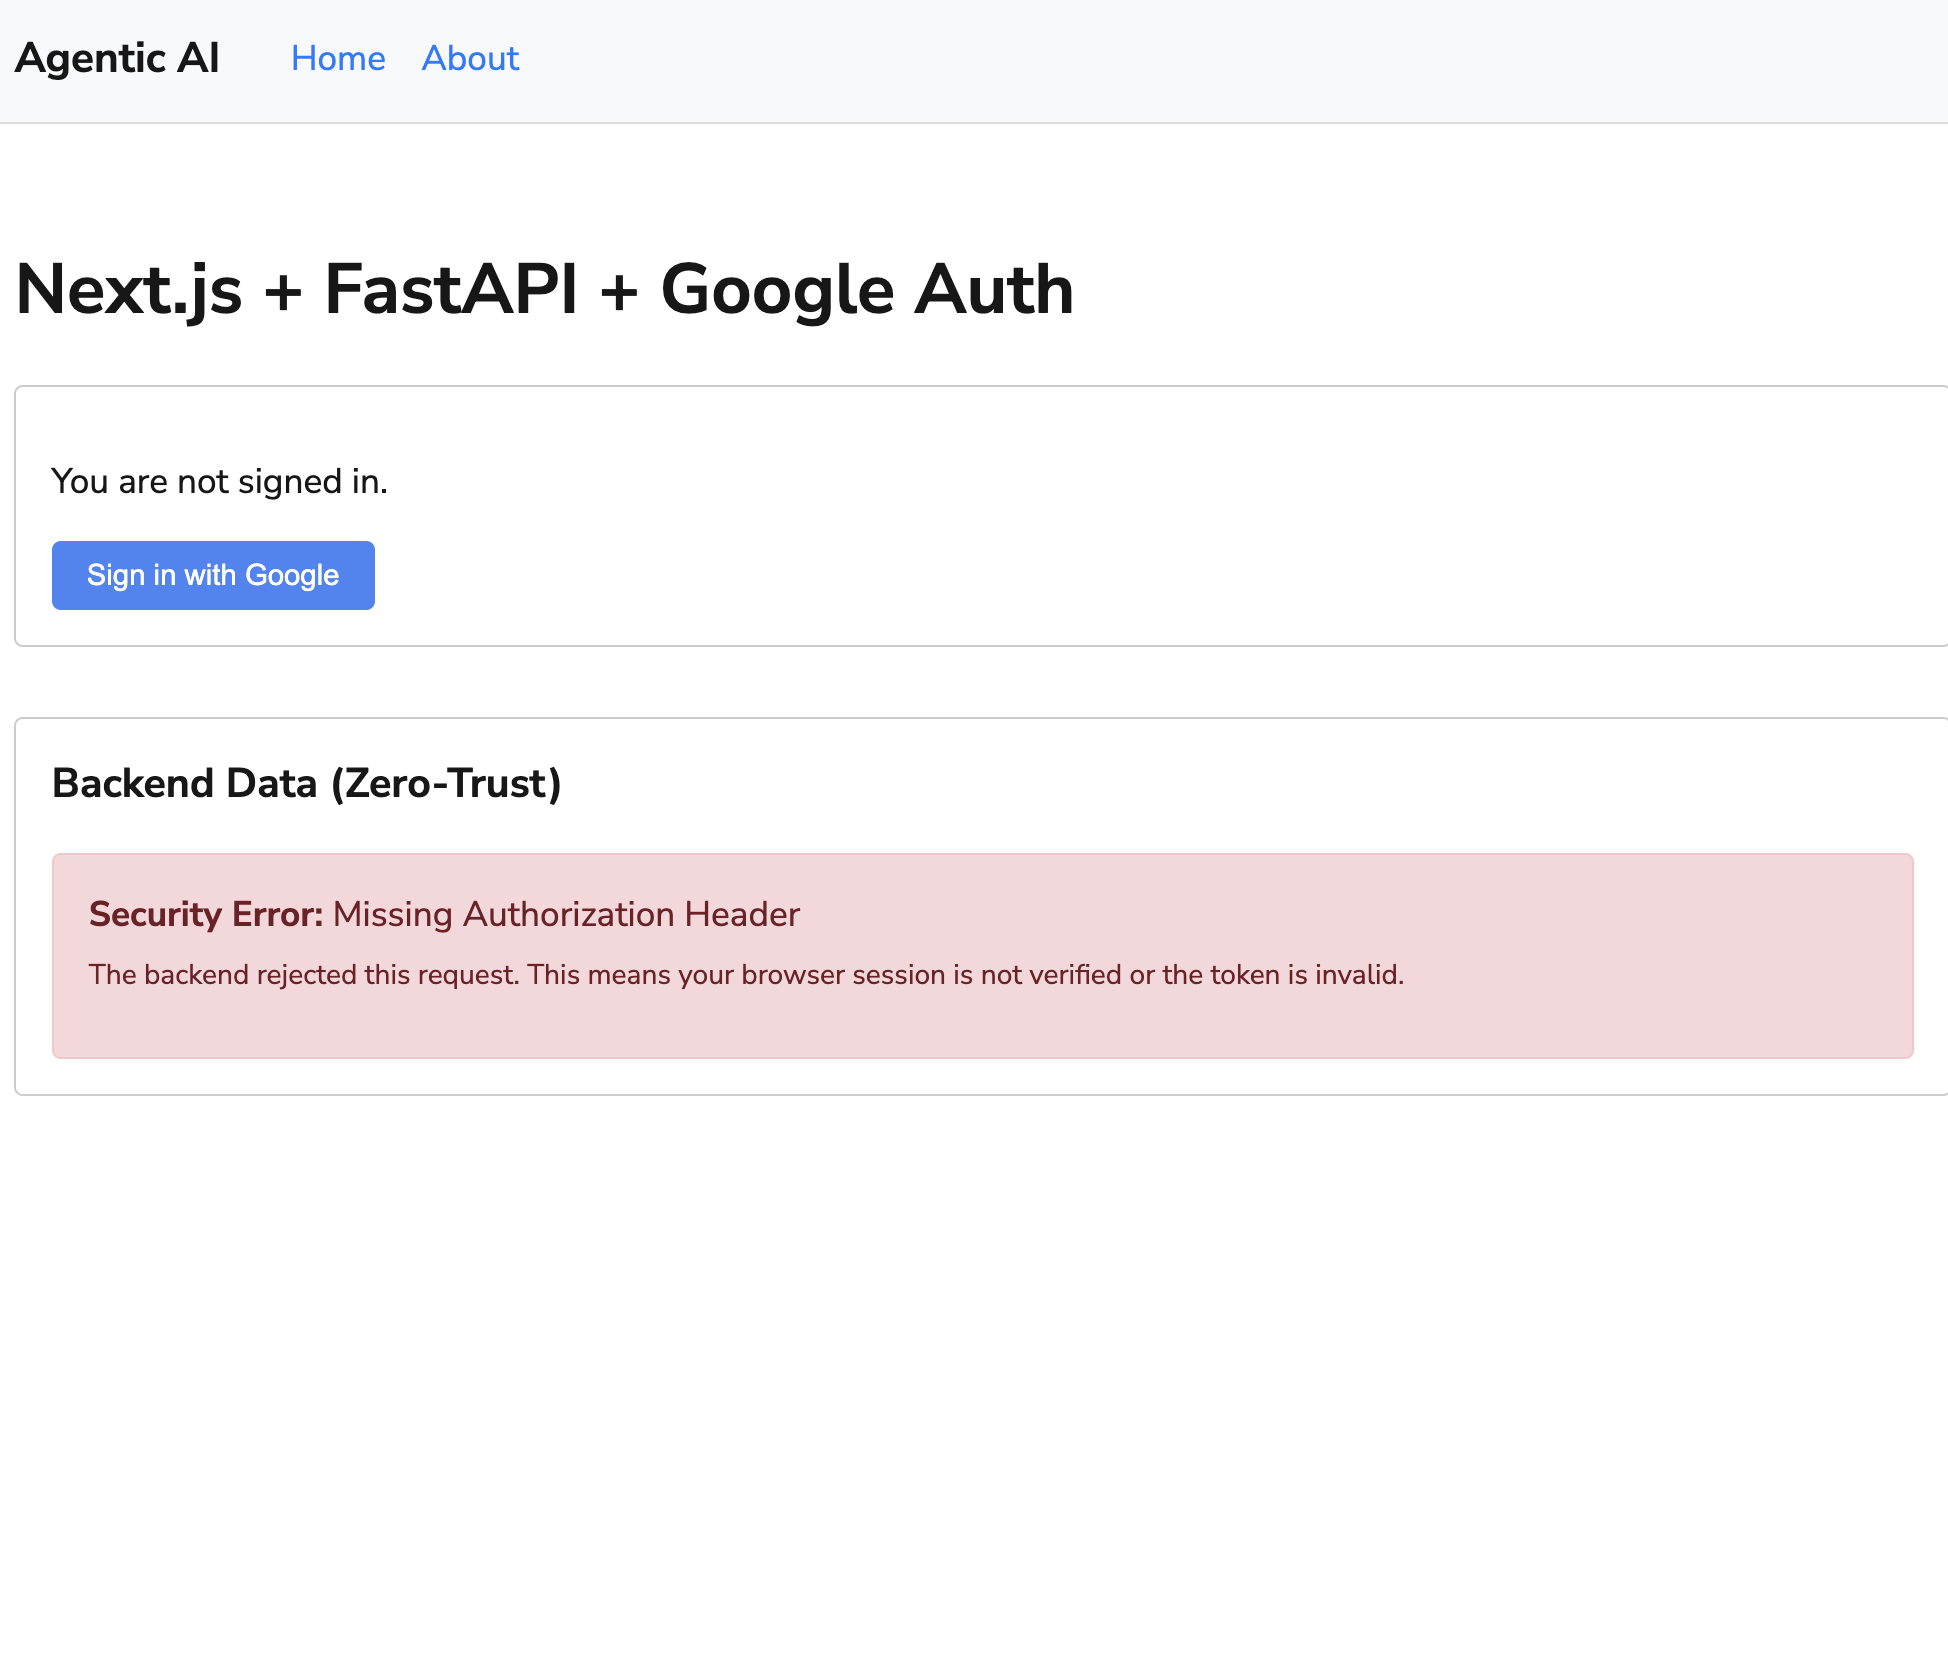
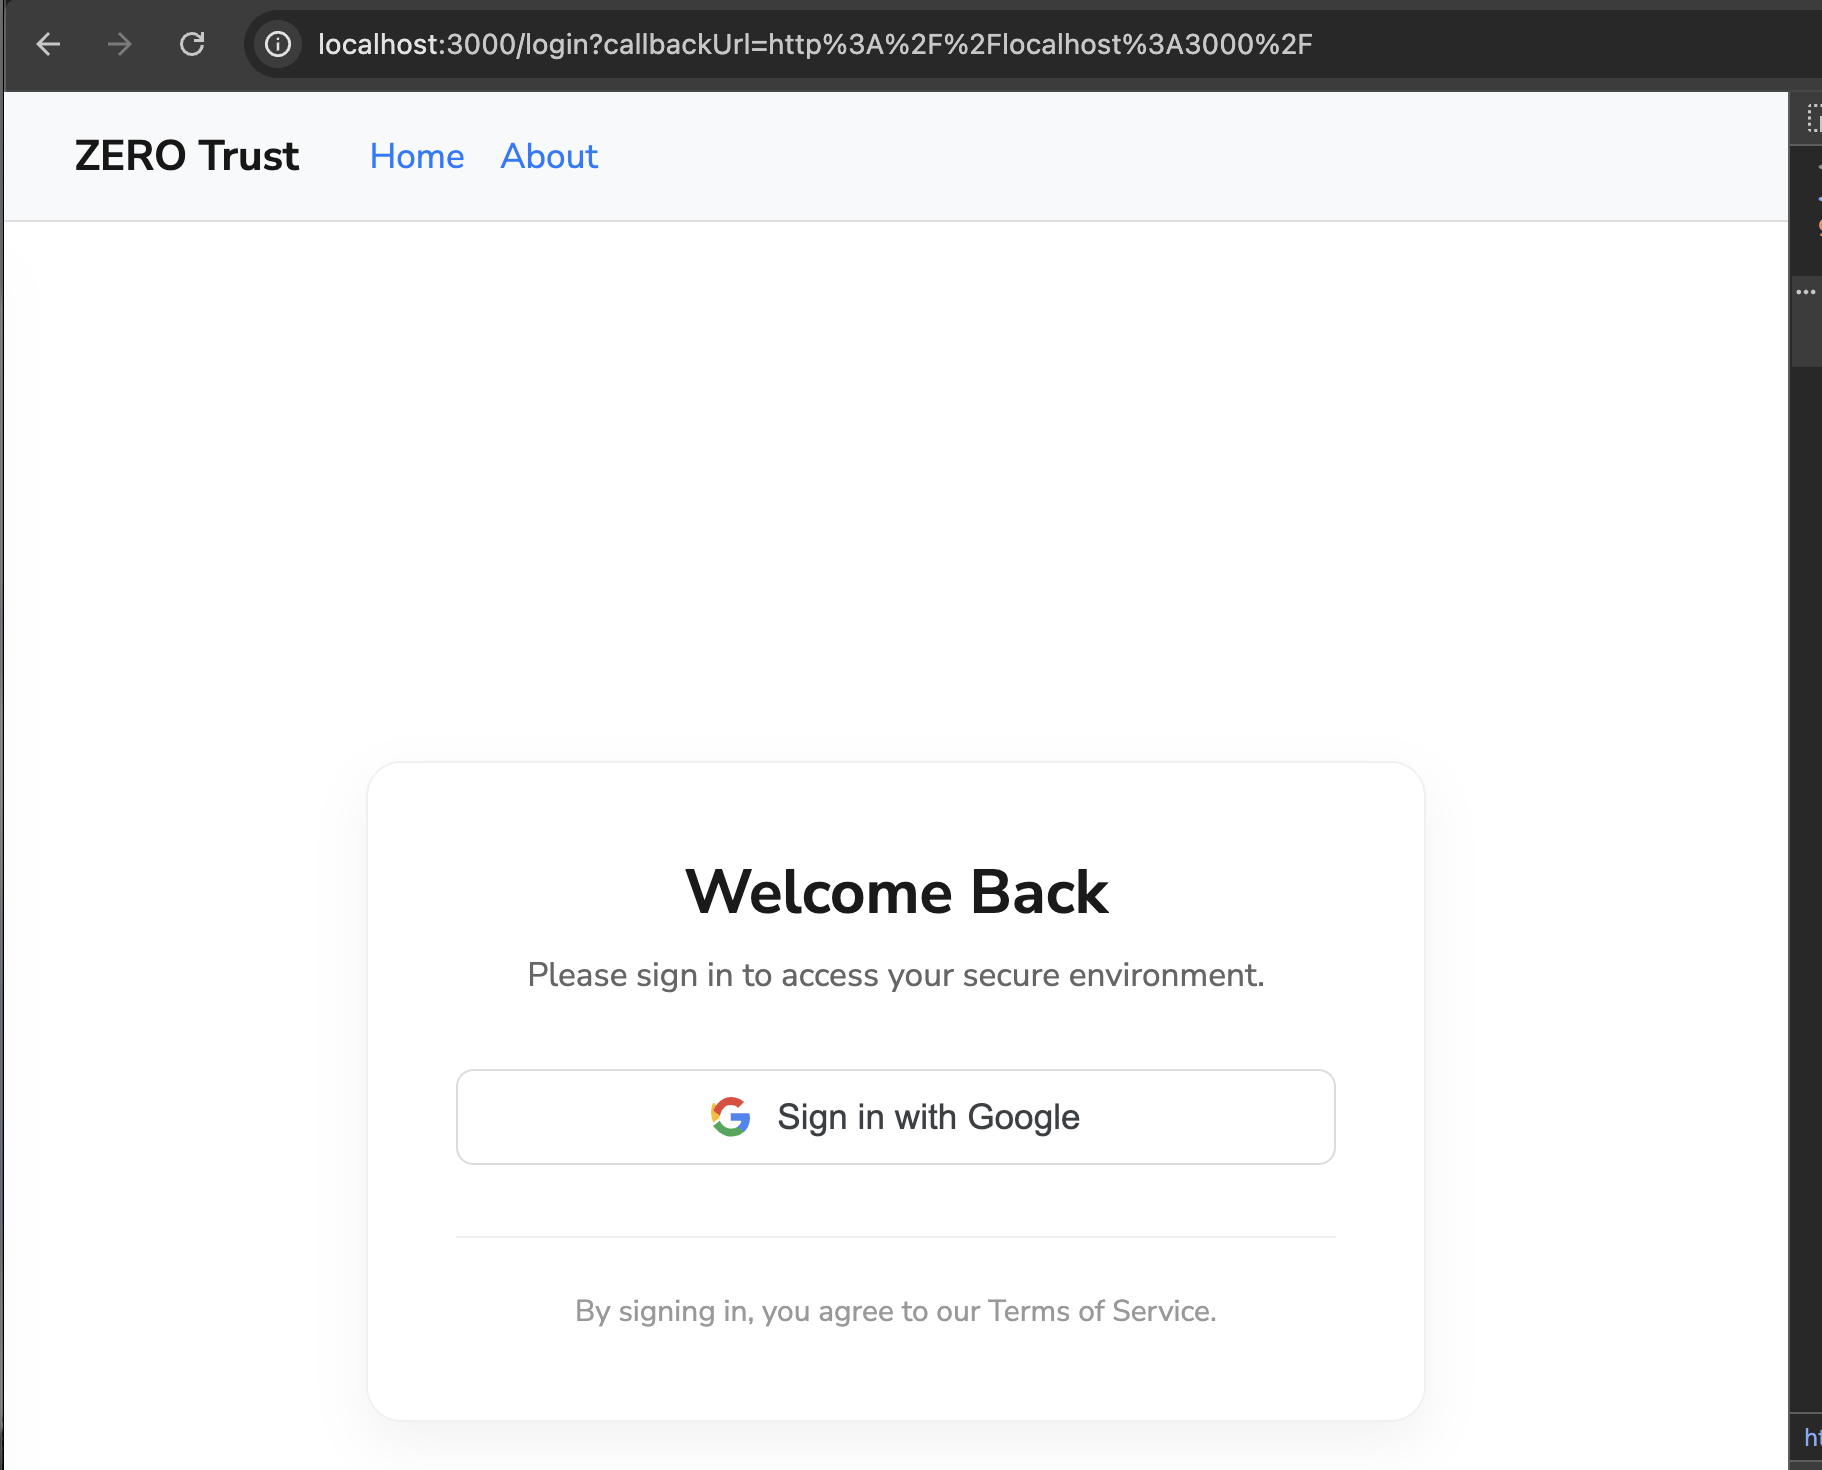
feat: Implement a login page with Google authentication using NextAuth, updating associated routes, middleware, and assets.

diff --git a/frontend/src/app/(pages)/login/page.tsx b/frontend/src/app/(pages)/login/page.tsx
@@ -1,0 +1,87 @@
+'use client';
+
+import { signIn } from "next-auth/react";
+import { useSearchParams } from "next/navigation";
+import { Suspense } from "react";
+
+function LoginForm() {
+    const searchParams = useSearchParams();
+    const callbackUrl = searchParams.get("callbackUrl") || "/";
+
+    return (
+        <div style={{
+            minHeight: "80vh",
+            display: "flex",
+            alignItems: "center",
+            justifyContent: "center",
+            padding: "1rem"
+        }}>
+            <div style={{
+                width: "100%",
+                maxWidth: "400px",
+                background: "white",
+                padding: "2.5rem",
+                borderRadius: "16px",
+                boxShadow: "0 10px 25px rgba(0,0,0,0.05)",
+                textAlign: "center",
+                border: "1px solid #f0f0f0"
+            }}>
+                <h1 style={{ margin: "0 0 0.5rem 0", fontSize: "1.75rem", fontWeight: "700", color: "#1a1a1a" }}>
+                    Welcome Back
+                </h1>
+                <p style={{ margin: "0 0 2rem 0", color: "#666", fontSize: "0.95rem" }}>
+                    Please sign in to access your secure environment.
+                </p>
+
+                <button
+                    onClick={() => signIn("google", { callbackUrl })}
+                    style={{
+                        width: "100%",
+                        display: "flex",
+                        alignItems: "center",
+                        justifyContent: "center",
+                        gap: "12px",
+                        padding: "0.75rem",
+                        background: "white",
+                        color: "#3c4043",
+                        border: "1px solid #dadce0",
+                        borderRadius: "8px",
+                        fontSize: "1rem",
+                        fontWeight: "500",
+                        cursor: "pointer",
+                        transition: "background 0.2s, box-shadow 0.2s",
+                        outline: "none"
+                    }}
+                    onMouseOver={(e) => {
+                        e.currentTarget.style.background = "#f8f9fa";
+                        e.currentTarget.style.border = "1px solid #d2e3fc";
+                    }}
+                    onMouseOut={(e) => {
+                        e.currentTarget.style.background = "white";
+                        e.currentTarget.style.border = "1px solid #dadce0";
+                    }}
+                >
+                    <svg width="18" height="18" viewBox="0 0 18 18">
+                        <path d="M17.64 9.2c0-.63-.06-1.25-.16-1.84H9v3.49h4.84c-.21 1.12-.84 2.07-1.79 2.7l2.97 2.3c1.74-1.61 2.74-3.97 2.74-6.65z" fill="#4285F4" />
+                        <path d="M9 18c2.43 0 4.47-.8 5.96-2.18l-2.97-2.3c-.82.55-1.87.88-2.99.88-2.3 0-4.25-1.55-4.94-3.64l-3.07 2.38C2.49 15.14 5.51 18 9 18z" fill="#34A853" />
+                        <path d="M4.06 10.76c-.18-.55-.28-1.13-.28-1.76s.1-1.21.28-1.76V4.87l-3.07-2.38C.39 3.73 0 5.32 0 7c0 1.68.39 3.27 1.01 4.67l3.05-2.37z" fill="#FBBC05" />
+                        <path d="M9 3.58c1.32 0 2.5.45 3.44 1.35l2.58-2.58C13.47.89 11.43 0 9 0 5.51 0 2.49 2.86 1.01 6.13l3.07 2.38C4.75 5.13 6.7 3.58 9 3.58z" fill="#EA4335" />
+                    </svg>
+                    Sign in with Google
+                </button>
+
+                <div style={{ marginTop: "2rem", paddingTop: "1.5rem", borderTop: "1px solid #f0f0f0", fontSize: "0.85rem", color: "#999" }}>
+                    By signing in, you agree to our Terms of Service.
+                </div>
+            </div>
+        </div>
+    );
+}
+
+export default function LoginPage() {
+    return (
+        <Suspense fallback={<div style={{ padding: '2rem', textAlign: 'center' }}>Loading...</div>}>
+            <LoginForm />
+        </Suspense>
+    );
+}

diff --git a/frontend/src/app/(pages)/page.tsx b/frontend/src/app/(pages)/page.tsx
@@ -4,7 +4,12 @@ import { useEffect, useState } from 'react';
 import { signIn, signOut, useSession } from "next-auth/react";
 
 export default function Home() {
-  const { data: session } = useSession();
+  const { data: session } = useSession({
+    required: true,
+    onUnauthenticated() {
+      signIn('google');
+    },
+  });
   const [data, setData] = useState<{ Hello?: string; error?: string } | null>(null);
   const [loading, setLoading] = useState(true);
   const [mounted, setMounted] = useState(false);
@@ -24,8 +29,10 @@ export default function Home() {
       }
     }
 
-    fetchData();
-  }, []);
+    if (session) {
+      fetchData();
+    }
+  }, [session]);
 
   if (!mounted) {
     return (
@@ -39,32 +46,24 @@ export default function Home() {
     <div style={{ padding: '2rem' }}>
       <h1>Next.js + FastAPI + Google Auth</h1>
 
-      <div style={{ marginBottom: '2rem', padding: '1rem', border: '1px solid #ccc', borderRadius: '4px' }}>
-        {session ? (
-          <div>
-            <p>Signed in as <strong>{session.user?.email}</strong></p>
-            {session.user?.image && (
-              <img src={session.user.image} alt="User Profile" style={{ borderRadius: '50%', width: '50px' }} />
+      <div style={{ marginBottom: '2rem', padding: '1rem', border: '1px solid #ccc', borderRadius: '4px', background: '#f8f9fa' }}>
+        <div style={{ display: 'flex', alignItems: 'center', gap: '1.5rem', justifyContent: 'space-between' }}>
+          <div style={{ display: 'flex', alignItems: 'center', gap: '1rem' }}>
+            {session?.user?.image && (
+              <img src={session.user.image} alt="Profile" style={{ borderRadius: '50%', width: '40px' }} />
             )}
-            <p>Name: {session.user?.name}</p>
-            <button
-              onClick={() => signOut()}
-              style={{ padding: '0.5rem 1rem', cursor: 'pointer', background: '#ff4444', color: 'white', border: 'none', borderRadius: '4px' }}
-            >
-              Sign out
-            </button>
+            <div>
+              <p style={{ margin: 0, fontWeight: 'bold' }}>{session?.user?.name}</p>
+              <p style={{ margin: 0, fontSize: '0.85rem', color: '#666' }}>{session?.user?.email}</p>
+            </div>
           </div>
-        ) : (
-          <div>
-            <p>You are not signed in.</p>
-            <button
-              onClick={() => signIn('google')}
-              style={{ padding: '0.5rem 1rem', cursor: 'pointer', background: '#4285F4', color: 'white', border: 'none', borderRadius: '4px' }}
-            >
-              Sign in with Google
-            </button>
-          </div>
-        )}
+          <button
+            onClick={() => signOut()}
+            style={{ padding: '0.5rem 1rem', cursor: 'pointer', background: '#ff4444', color: 'white', border: 'none', borderRadius: '4px', fontWeight: '500' }}
+          >
+            Sign out
+          </button>
+        </div>
       </div>
 
       <div style={{ marginTop: '1rem', padding: '1rem', border: '1px solid #ccc', borderRadius: '4px' }}>

diff --git a/frontend/src/app/(pages)/layout.tsx b/frontend/src/app/(pages)/layout.tsx
@@ -25,7 +25,7 @@ export default function RootLayout({
     <html lang="en" suppressHydrationWarning className={nunitoSans.className}>
       <body style={{ margin: 0, minHeight: "100vh", display: "flex", flexDirection: "column" }}>
         <header style={{ padding: "1rem 2rem", background: "#f8f9fa", borderBottom: "1px solid #ddd", display: "flex", gap: "2rem", alignItems: "center" }}>
-          <h2 style={{ margin: 0, fontSize: "1.2rem", fontWeight: "bold" }}>Agentic AI</h2>
+          <h2 style={{ margin: 0, fontSize: "1.2rem", fontWeight: "bold" }}>ZERO Trust</h2>
           <nav style={{ display: "flex", gap: "1rem" }}>
             <Link href="/" style={{ textDecoration: "none", color: "#007bff" }}>Home</Link>
             <Link href="/about" style={{ textDecoration: "none", color: "#007bff" }}>About</Link>
@@ -37,7 +37,7 @@ export default function RootLayout({
           </AuthProvider>
         </main>
         <footer style={{ padding: "1rem 2rem", background: "#f8f9fa", borderTop: "1px solid #ddd", textAlign: "center", color: "#666" }}>
-          &copy; 2026 Agentic AI Team
+          It&apos;s been securely locked
         </footer>
       </body>
     </html>

diff --git a/frontend/src/app/api/auth/[...nextauth]/route.ts b/frontend/src/app/api/auth/[...nextauth]/route.ts
@@ -31,6 +31,9 @@ export const authOptions: NextAuthOptions = {
         strategy: "jwt",
         maxAge: 24 * 60 * 60, // 24 hours
     },
+    pages: {
+        signIn: '/login',
+    },
     secret: process.env.NEXTAUTH_SECRET,
 };
 

diff --git a/frontend/src/middleware.ts b/frontend/src/middleware.ts
@@ -1,3 +1,5 @@
 export { default } from "next-auth/middleware";
 
-export const config = { matcher: ["/about"] };
+export const config = {
+    matcher: ["/((?!api|login|_next/static|_next/image|favicon.ico).*)"]
+};

diff --git a/CHANGELOG.md b/CHANGELOG.md
@@ -5,6 +5,20 @@ All notable changes to this project will be documented in this file.
 The format is based on [Keep a Changelog](https://keepachangelog.com/en/1.0.0/),
 and this project adheres to [Semantic Versioning](https://semver.org/spec/v2.0.0.html).
 
+## [1.6.0] - 2026-01-16
+### Changed
+- **Branding Refresh**: Updated application title to "ZERO Trust" and footer to "It's been securely locked" to align with the core security principles.
+
+## [1.5.0] - 2026-01-16
+### Added
+- **Site-Wide Protection**: Extended Next.js Middleware to protect the entire application, including the home page.
+- **Simplified UI**: Streamlined the home page UI now that authentication is guaranteed by the global route guard.
+
+## [1.4.0] - 2026-01-16
+### Added
+- **Custom Login Page**: Designed and implemented a dedicated premium login page at `/login` to replace the default NextAuth sign-in screen.
+- **Improved UX**: Integrated automatic redirection to the custom login page for unauthorized access to protected routes.
+
 ## [1.3.0] - 2026-01-16
 ### Added
 - **Route Protection**: Implemented Next.js Middleware to globally protect the `/about` route.
